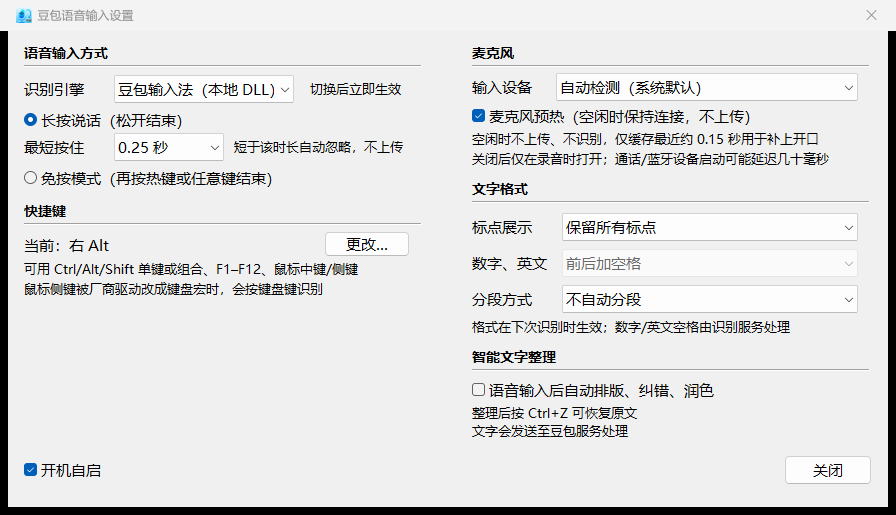
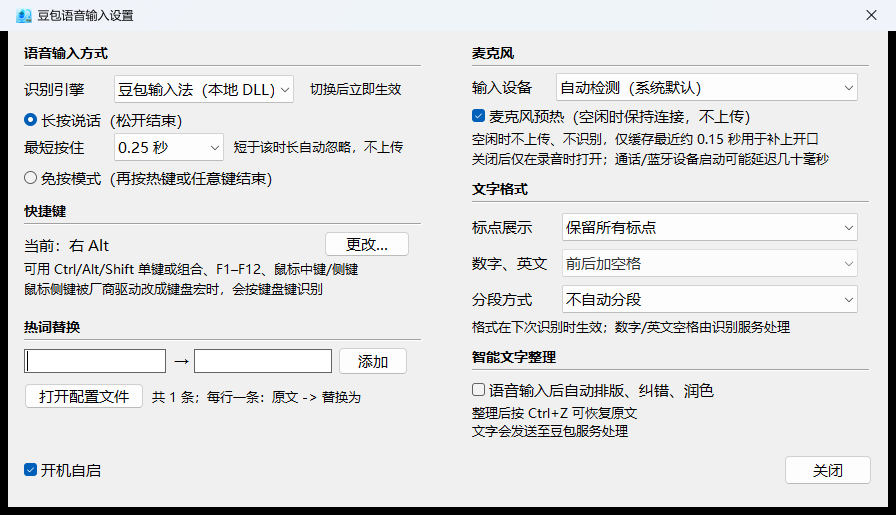
设置页新增热词替换，支持界面添加和配置文件编辑

diff --git a/app/voice_ime.py b/app/voice_ime.py
@@ -33,6 +33,9 @@ def app_dir():
 APP_DIR = app_dir()
 LOG_PATH = os.path.join(APP_DIR, "voice_ime.log")
 CONFIG_PATH = os.path.join(APP_DIR, "config.json")
+HOTWORDS_PATH = os.path.join(APP_DIR, "hotwords.txt")
+HOTWORDS_HEADER = ("# 热词替换：每行一条，格式：原文 -> 替换为\n"
+                   "# 以 # 开头的行会被忽略，修改后下次识别自动生效\n")
 ICON_NAME = "icon.ico"
 DEFAULT_HOTKEY = "RALT"
 RUN_KEY = r"Software\Microsoft\Windows\CurrentVersion\Run"
@@ -55,6 +58,79 @@ def save_config(cfg):
             json.dump(cfg, f, ensure_ascii=False, indent=2)
     except OSError:
         log("save config failed")
+
+
+def ensure_hotwords_file():
+    if os.path.exists(HOTWORDS_PATH):
+        return
+    try:
+        with open(HOTWORDS_PATH, "w", encoding="utf-8") as f:
+            f.write(HOTWORDS_HEADER)
+    except OSError:
+        log("create hotwords failed")
+
+
+def load_hotwords():
+    try:
+        with open(HOTWORDS_PATH, "r", encoding="utf-8-sig") as f:
+            lines = f.read().splitlines()
+    except (OSError, UnicodeError):
+        return []
+    rules = {}
+    for line in lines:
+        item = line.strip()
+        if not item or item.startswith("#"):
+            continue
+        item = item.replace("→", "->").replace("=>", "->")
+        if "->" not in item:
+            continue
+        src, dst = item.split("->", 1)
+        src, dst = src.strip(), dst.strip()
+        if not src or not dst:
+            continue
+        rules[src] = dst
+    return sorted(rules.items(), key=lambda pair: len(pair[0]), reverse=True)
+
+
+def apply_hotwords(text, rules=None):
+    rules = load_hotwords() if rules is None else rules
+    if not text or not rules:
+        return text
+    mapping = dict(rules)
+    pattern = re.compile("|".join(re.escape(src) for src, _ in rules))
+    return pattern.sub(lambda m: mapping[m.group(0)], text)
+
+
+def add_hotword(src, dst):
+    src, dst = (src or "").strip(), (dst or "").strip()
+    if (not src or not dst or src.startswith("#")
+            or any(tok in src for tok in ("->", "=>", "→"))):
+        return False
+    ensure_hotwords_file()
+    try:
+        with open(HOTWORDS_PATH, "r", encoding="utf-8-sig") as f:
+            data = f.read()
+    except (OSError, UnicodeError):
+        data = ""
+    prefix = "" if not data or data.endswith("\n") else "\n"
+    try:
+        with open(HOTWORDS_PATH, "a", encoding="utf-8") as f:
+            f.write(f"{prefix}{src} -> {dst}\n")
+    except OSError:
+        log("save hotword failed")
+        return False
+    log(f"hotword added {src!r} -> {dst!r}")
+    return True
+
+
+def open_hotwords_file():
+    ensure_hotwords_file()
+    try:
+        os.startfile(HOTWORDS_PATH)
+        return True
+    except OSError:
+        log("open hotwords failed")
+        return False
 
 
 PUNCT_MODES = ("keep_all", "remove_trailing", "space_replace")
@@ -2324,6 +2400,8 @@ WS_OVERLAPPED, WS_CAPTION, WS_SYSMENU = 0x00000000, 0x00C00000, 0x00080000
 WS_EX_CONTROLPARENT = 0x00010000
 BS_AUTORADIOBUTTON, BS_AUTOCHECKBOX = 0x09, 0x03
 SS_ETCHEDHORZ = 0x10
+ES_AUTOHSCROLL = 0x0080
+WS_BORDER = 0x00800000
 CBS_DROPDOWNLIST, CBS_HASSTRINGS = 0x0003, 0x0200
 CB_ADDSTRING, CB_SETCURSEL, CB_GETCURSEL = 0x0143, 0x014E, 0x0147
 CB_SETDROPPEDWIDTH = 0x015F
@@ -2337,7 +2415,7 @@ COLOR_BTNFACE = 15
 COLOR_BTNFACE_BRUSH = COLOR_BTNFACE + 1
 
 SETTINGS_WIDTH = 880
-SETTINGS_HEIGHT = 476 if SMART_AVAILABLE else 372
+SETTINGS_HEIGHT = 476 if SMART_AVAILABLE else 440
 WM_DPICHANGED = 0x02E0
 MONITOR_DEFAULTTONEAREST = 2
 SWP_NOZORDER = 0x0004
@@ -2411,6 +2489,14 @@ class Settings:
     ID_ENGINE = 2123
     ID_ENGINE_LABEL = 2124
     ID_ENGINE_HINT = 2125
+    ID_HOTWORD_SECTION = 2218
+    ID_HOTWORD_LINE = 2219
+    ID_HOTWORD_SRC = 2220
+    ID_HOTWORD_DST = 2221
+    ID_HOTWORD_ADD = 2222
+    ID_HOTWORD_OPEN = 2223
+    ID_HOTWORD_HINT = 2224
+    ID_HOTWORD_ARROW = 2225
 
     PUNCT_ITEMS = [("keep_all", "保留所有标点"),
                    ("remove_trailing", "句末不加标点"),
@@ -2550,6 +2636,10 @@ class Settings:
         user32.SendMessageW.argtypes = [ctypes.c_void_p, wintypes.UINT,
                                         wintypes.WPARAM, wintypes.LPARAM]
         user32.SetWindowTextW.argtypes = [ctypes.c_void_p, wintypes.LPCWSTR]
+        user32.GetWindowTextLengthW.argtypes = [ctypes.c_void_p]
+        user32.GetWindowTextLengthW.restype = ctypes.c_int
+        user32.GetWindowTextW.argtypes = [ctypes.c_void_p, wintypes.LPWSTR, ctypes.c_int]
+        user32.GetWindowTextW.restype = ctypes.c_int
         user32.SetFocus.argtypes = [ctypes.c_void_p]
         user32.GetDpiForSystem.restype = ctypes.c_uint32
         user32.LoadCursorW.restype = ctypes.c_void_p
@@ -2663,6 +2753,20 @@ class Settings:
     def _checked(self, cid):
         return int(user32.SendMessageW(self._hwnds[cid], BM_GETCHECK, 0, 0)) == BST_CHECKED
 
+    def _text(self, cid):
+        hwnd = self._hwnds.get(cid)
+        if not hwnd:
+            return ""
+        n = int(user32.GetWindowTextLengthW(hwnd))
+        buf = ctypes.create_unicode_buffer(n + 1)
+        user32.GetWindowTextW(hwnd, buf, n + 1)
+        return buf.value
+
+    def _set_hotword_hint(self, text):
+        hwnd = self._hwnds.get(self.ID_HOTWORD_HINT)
+        if hwnd:
+            user32.SetWindowTextW(hwnd, text)
+
     def _build_controls(self):
         LX, RX, LW, RW = 16, 464, 400, 400
         self._section("语音输入方式", 12, 2201, 2211, LX, LW)
@@ -2690,6 +2794,20 @@ class Settings:
                  LX, 228, LW, 18, self.ID_HOTKEY_HINT, small=True)
         self._mk("STATIC", "鼠标侧键被厂商驱动改成键盘宏时，会按键盘键识别", 0,
                  LX, 248, LW, 18, self.ID_HOTKEY_HINT2, small=True)
+
+        self._section("热词替换", 286, self.ID_HOTWORD_SECTION,
+                      self.ID_HOTWORD_LINE, LX, LW)
+        self._mk("EDIT", "", ES_AUTOHSCROLL | WS_BORDER | WS_TABSTOP,
+                 LX, 318, 142, 24, self.ID_HOTWORD_SRC)
+        self._mk("STATIC", "→", 0, LX + 150, 321, 16, 20, self.ID_HOTWORD_ARROW)
+        self._mk("EDIT", "", ES_AUTOHSCROLL | WS_BORDER | WS_TABSTOP,
+                 LX + 170, 318, 138, 24, self.ID_HOTWORD_DST)
+        self._mk("BUTTON", "添加", WS_TABSTOP,
+                 LX + 314, 316, 70, 28, self.ID_HOTWORD_ADD)
+        self._mk("BUTTON", "打开配置文件", WS_TABSTOP,
+                 LX, 352, 120, 26, self.ID_HOTWORD_OPEN)
+        self._mk("STATIC", "", 0, LX + 128, 356, LW - 128, 18,
+                 self.ID_HOTWORD_HINT, small=True)
 
         self._section("麦克风", 12, 2203, 2213, RX, RW)
         self._mk("STATIC", "输入设备", 0, RX, 46, 64, 20, 2204)
@@ -2726,7 +2844,7 @@ class Settings:
                      RX, 390, RW, 18, self.ID_SMART_HINT2, small=True)
             bottom = 428
         else:
-            bottom = 324
+            bottom = 392
         self._mk("BUTTON", "开机自启", BS_AUTOCHECKBOX | WS_TABSTOP,
                  LX, bottom, 160, 22, self.ID_AUTOSTART)
         self._mk("BUTTON", "关闭", WS_TABSTOP, RX + RW - 88, bottom - 4, 88, 30, self.ID_CLOSE)
@@ -2780,6 +2898,9 @@ class Settings:
                     mi = i + 1
                     break
         self._combo_select(self.ID_MIC, mi)
+        if self.ID_HOTWORD_HINT in self._hwnds:
+            self._set_hotword_hint(
+                f"共 {len(load_hotwords())} 条；每行一条：原文 -> 替换为")
 
     def _on_command(self, wp):
         cid = wp & 0xFFFF
@@ -2811,6 +2932,21 @@ class Settings:
         elif cid == self.ID_SMART and code == BN_CLICKED:
             if not app.set_smart_text(self._checked(self.ID_SMART)):
                 self.refresh()
+        elif cid == self.ID_HOTWORD_ADD and code == BN_CLICKED:
+            src = self._text(self.ID_HOTWORD_SRC).strip()
+            dst = self._text(self.ID_HOTWORD_DST).strip()
+            if not src or not dst:
+                self._set_hotword_hint("请填写原文和替换为")
+            elif not add_hotword(src, dst):
+                self._set_hotword_hint("原文不能以 # 开头或包含箭头")
+            else:
+                user32.SetWindowTextW(self._hwnds[self.ID_HOTWORD_SRC], "")
+                user32.SetWindowTextW(self._hwnds[self.ID_HOTWORD_DST], "")
+                user32.SetFocus(self._hwnds[self.ID_HOTWORD_SRC])
+                self._set_hotword_hint(f"已添加（共 {len(load_hotwords())} 条）")
+        elif cid == self.ID_HOTWORD_OPEN and code == BN_CLICKED:
+            if not open_hotwords_file():
+                self._set_hotword_hint("打开失败，请手动打开 hotwords.txt")
         elif cid == self.ID_MIC and code == CBN_SELCHANGE:
             idx = self._combo_index(self.ID_MIC)
             sel = None
@@ -3298,7 +3434,8 @@ class App:
             self.set_ui("wait", "识别中…")
             sess.finish()
             self.accept_live = False
-            text = format_text(sess.text, self.punctuation, self.paragraph_mode)
+            text = apply_hotwords(format_text(sess.text, self.punctuation,
+                                              self.paragraph_mode))
             if text:
                 if self.args.no_inject:
                     log(f"no-inject, text={text!r}")
@@ -3385,6 +3522,8 @@ class App:
             log(f"smart organize failed: {new}")
             self._smart_notice("智能整理未生效（已保留原文）")
             return
+        if verdict == "rewrite" and new.strip():
+            new = apply_hotwords(new)
         if verdict != "rewrite" or not new.strip() or new == rec["original"]:
             log(f"smart organize kept original ({verdict})")
             return
@@ -3575,6 +3714,7 @@ def main():
 
     set_dpi_awareness()
     log("=== start " + " ".join(sys.argv[1:]))
+    ensure_hotwords_file()
 
     if not args.wav and not acquire_single_instance():
         user32.MessageBoxW.restype = ctypes.c_int

diff --git a/README.md b/README.md
@@ -11,6 +11,7 @@
 - 图形设置窗口：输入方式、快捷键、麦克风、文字格式、开机自启集中配置
 - 麦克风可选自动检测或指定设备
 - 文字格式可调：标点展示、汉字与数字/英文之间是否加空格、按句末标点自动分段
+- 热词替换：识别结果中出现指定词时自动替换成另一个词；可在设置里添加，也可直接编辑 `hotwords.txt`
 - 智能文字整理（完整版）：识别结果先照常输入，再自动排版、纠错、润色；按 `Ctrl+Z` 可恢复原文
 - 输入结果校验：文字没进输入框时自动复制到剪贴板，不会丢
 - 麦克风策略可切换：麦克风预热（默认，空闲时保持连接，延迟最低），或仅在录音时打开、结束即关闭（系统麦克风指示器只在录音时亮）
@@ -55,7 +56,7 @@
 1. 从 [Releases](../../releases) 下载 `DoubaoVoice.exe`（完整版）或 `DoubaoVoice_Lite.exe`（精简版）
 2. 双击运行，出现托盘图标即已就绪
 3. 在任意输入框里按住 `右 Alt`（或你设置的快捷键）说话，松开后自动输入；按 `Esc` 取消本次录音
-4. 右击托盘图标选择“设置…”可集中调整输入方式、快捷键、麦克风与文字格式；托盘菜单也可快速切换快捷键、开机自启、麦克风预热或退出
+4. 右击托盘图标选择“设置…”可集中调整输入方式、快捷键、麦克风、文字格式与热词替换；托盘菜单也可快速切换快捷键、开机自启、麦克风预热或退出
 
 ## 设置
 
@@ -71,10 +72,11 @@
   - 标点展示：保留所有标点 / 句末不加标点 / 空格代替标点
   - 数字、英文：汉字与数字/英文之间是否留空格，由识别服务处理
   - 分段方式：不自动分段（默认）/ 分段后空行 / 分段不空行。程序按识别文本中的句末标点（。！？；等）切段；如果整段只有末尾一个标点，就不会产生多个分段。
+- **热词替换**：在“原文”和“替换为”中填写后点“添加”，规则会追加到 exe 同目录的 `hotwords.txt`；也可以点“打开配置文件”直接编辑。每行一条，格式为 `原文 -> 替换为`（也支持 `=>` 和 `→`），以 `#` 开头的行会被忽略。替换在最终文字注入前执行，较长规则优先；智能整理后的文字也会再次套用。修改文件后，下次识别自动生效，无需重启。
 - **智能文字整理**（仅完整版，默认关闭）：语音输入完成后，把识别结果交给豆包服务做排版、纠错、润色，再用整理后的文字替换刚输入的内容。整理后按 `Ctrl+Z` 可恢复原文。仅在文字确实发生变化时才替换；替换前会确认仍停留在原来的输入框，用户中途按键、点鼠标或切换窗口都会放弃替换。精简版没有这一项。
 - **开机自启**：写入当前用户的启动项。
 
-设置保存在 exe 同目录的 `config.json`，对应字段：`voice_mode`（`hold` / `hands_free`）、`min_hold_ms`（`0` / `150` / `250` / `400`）、`hotkey`、`mic_device`、`mic_mode`（`always` / `press`）、`punctuation_mode`（`keep_all` / `remove_trailing` / `space_replace`）、`zh_space`、`paragraph_mode`（`none` / `blank` / `single`）、`smart_text`、`asr_engine`（`doubao` / `qwen` / `wetype`）。
+设置保存在 exe 同目录的 `config.json`，热词规则保存在同目录的 `hotwords.txt`。`config.json` 对应字段：`voice_mode`（`hold` / `hands_free`）、`min_hold_ms`（`0` / `150` / `250` / `400`）、`hotkey`、`mic_device`、`mic_mode`（`always` / `press`）、`punctuation_mode`（`keep_all` / `remove_trailing` / `space_replace`）、`zh_space`、`paragraph_mode`（`none` / `blank` / `single`）、`smart_text`、`asr_engine`（`doubao` / `qwen` / `wetype`）。
 
 麦克风默认预热，Windows 的麦克风使用指示器会一直亮着。它不会在空闲时上传或识别，按下快捷键后才开始录音，并补上开口前的约 0.15 秒缓存。不需要常亮指示器时可在设置中取消“麦克风预热”，之后只在录音期间打开麦克风，松开就关闭，指示器随之熄灭；代价是每次按下要花几十毫秒打开设备（蓝牙耳麦更久），开口的第一瞬间可能漏掉一点。
 
@@ -164,7 +166,7 @@ tools/                  逆向分析辅助脚本、运行时打包脚本
 THIRD_PARTY_NOTICES.md  第三方组件许可
 ```
 
-运行日志和配置保存在 exe 同目录：`voice_ime.log`、`config.json`。
+运行日志、配置和热词规则保存在 exe 同目录：`voice_ime.log`、`config.json`、`hotwords.txt`。
 
 ## 注意
 
